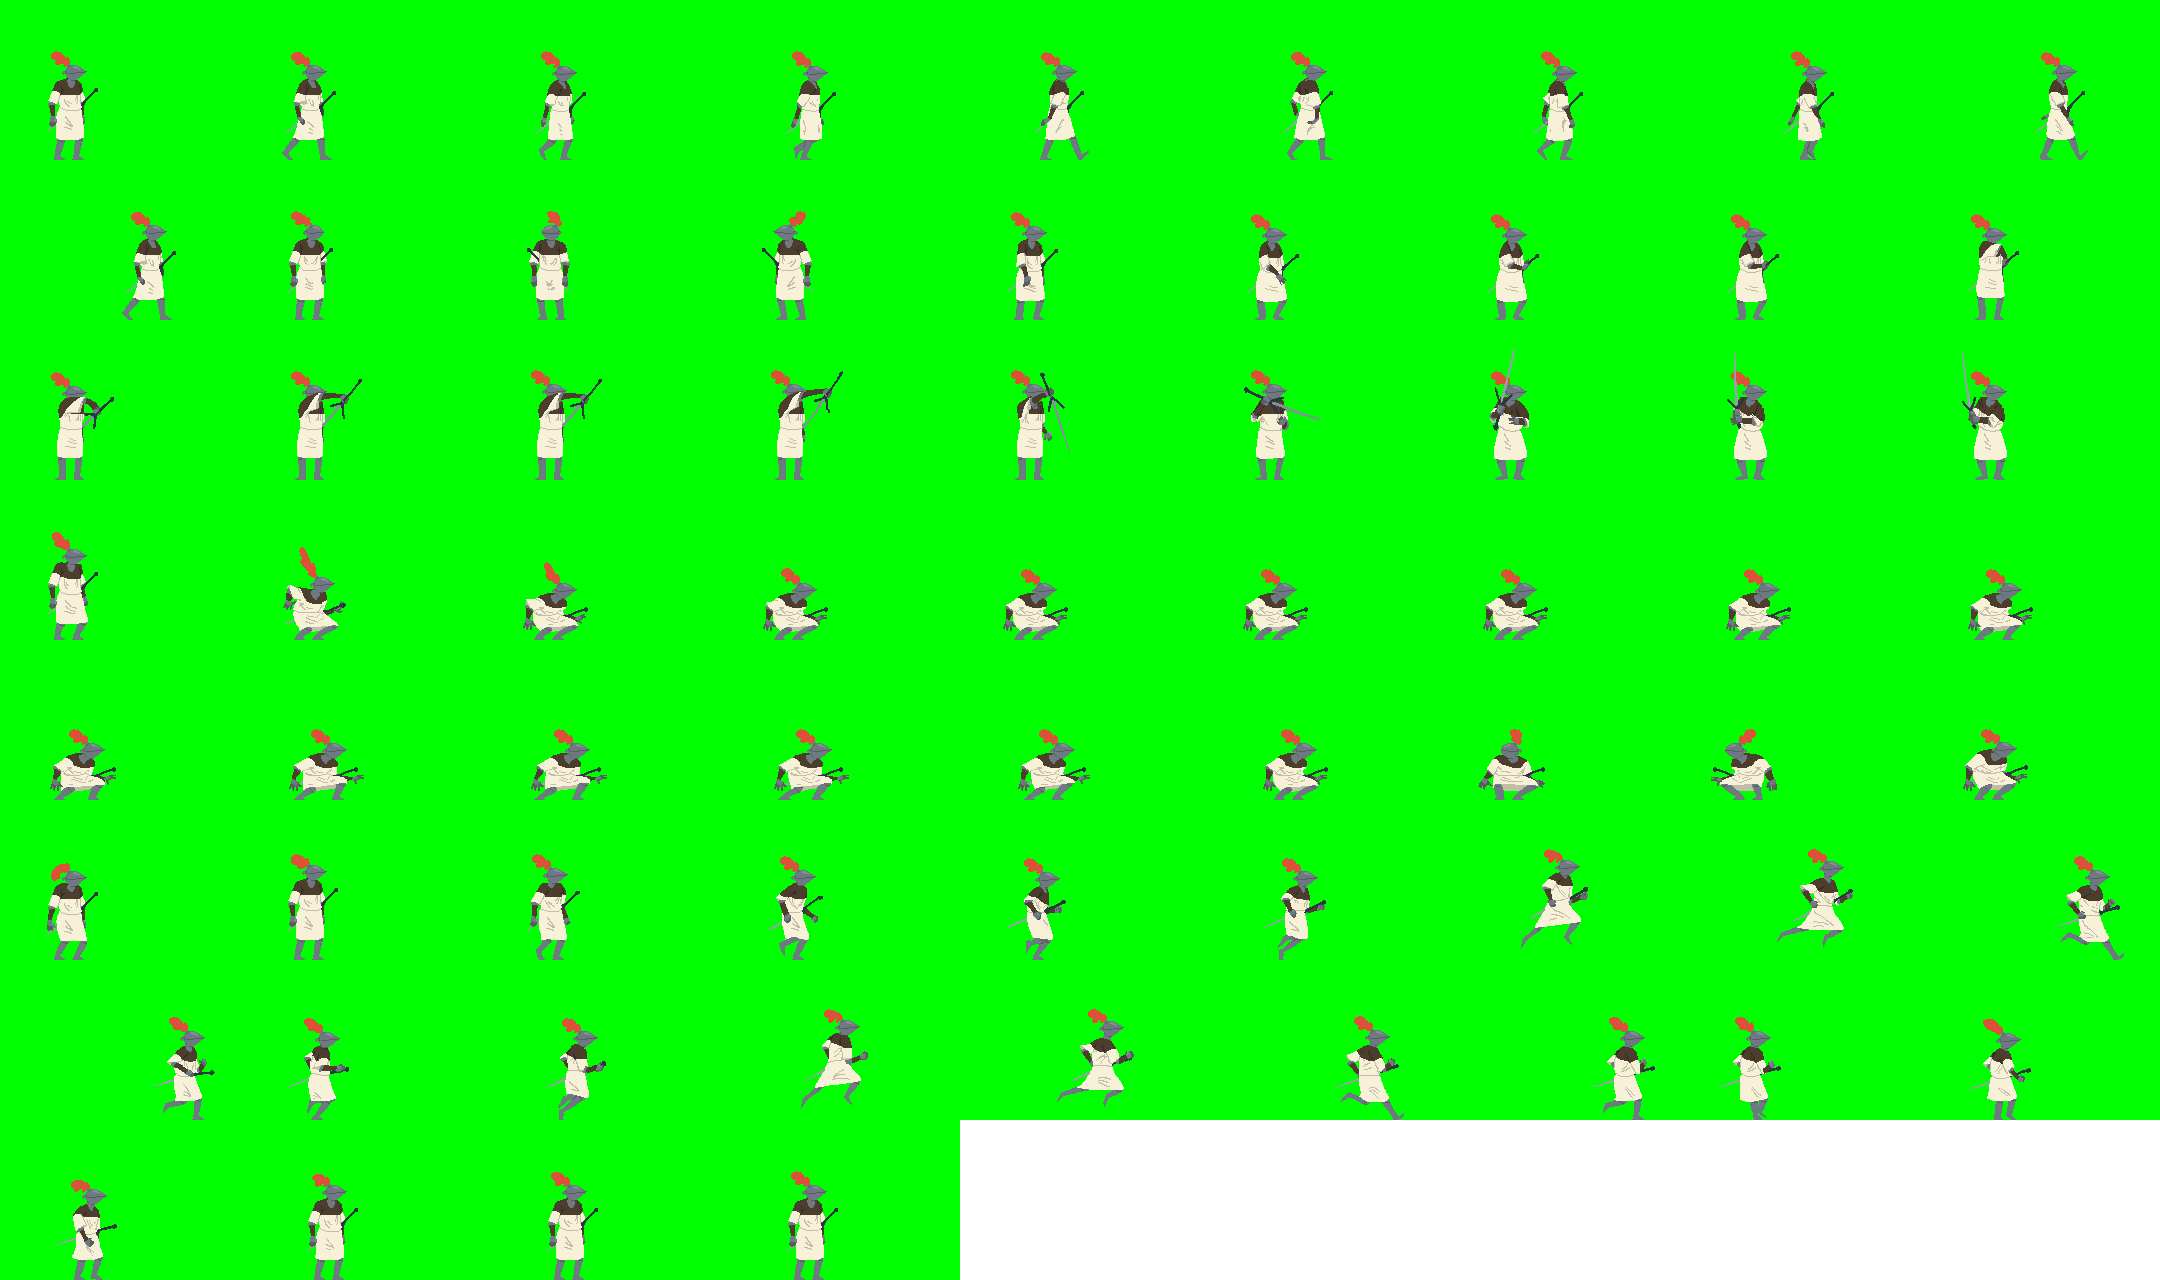
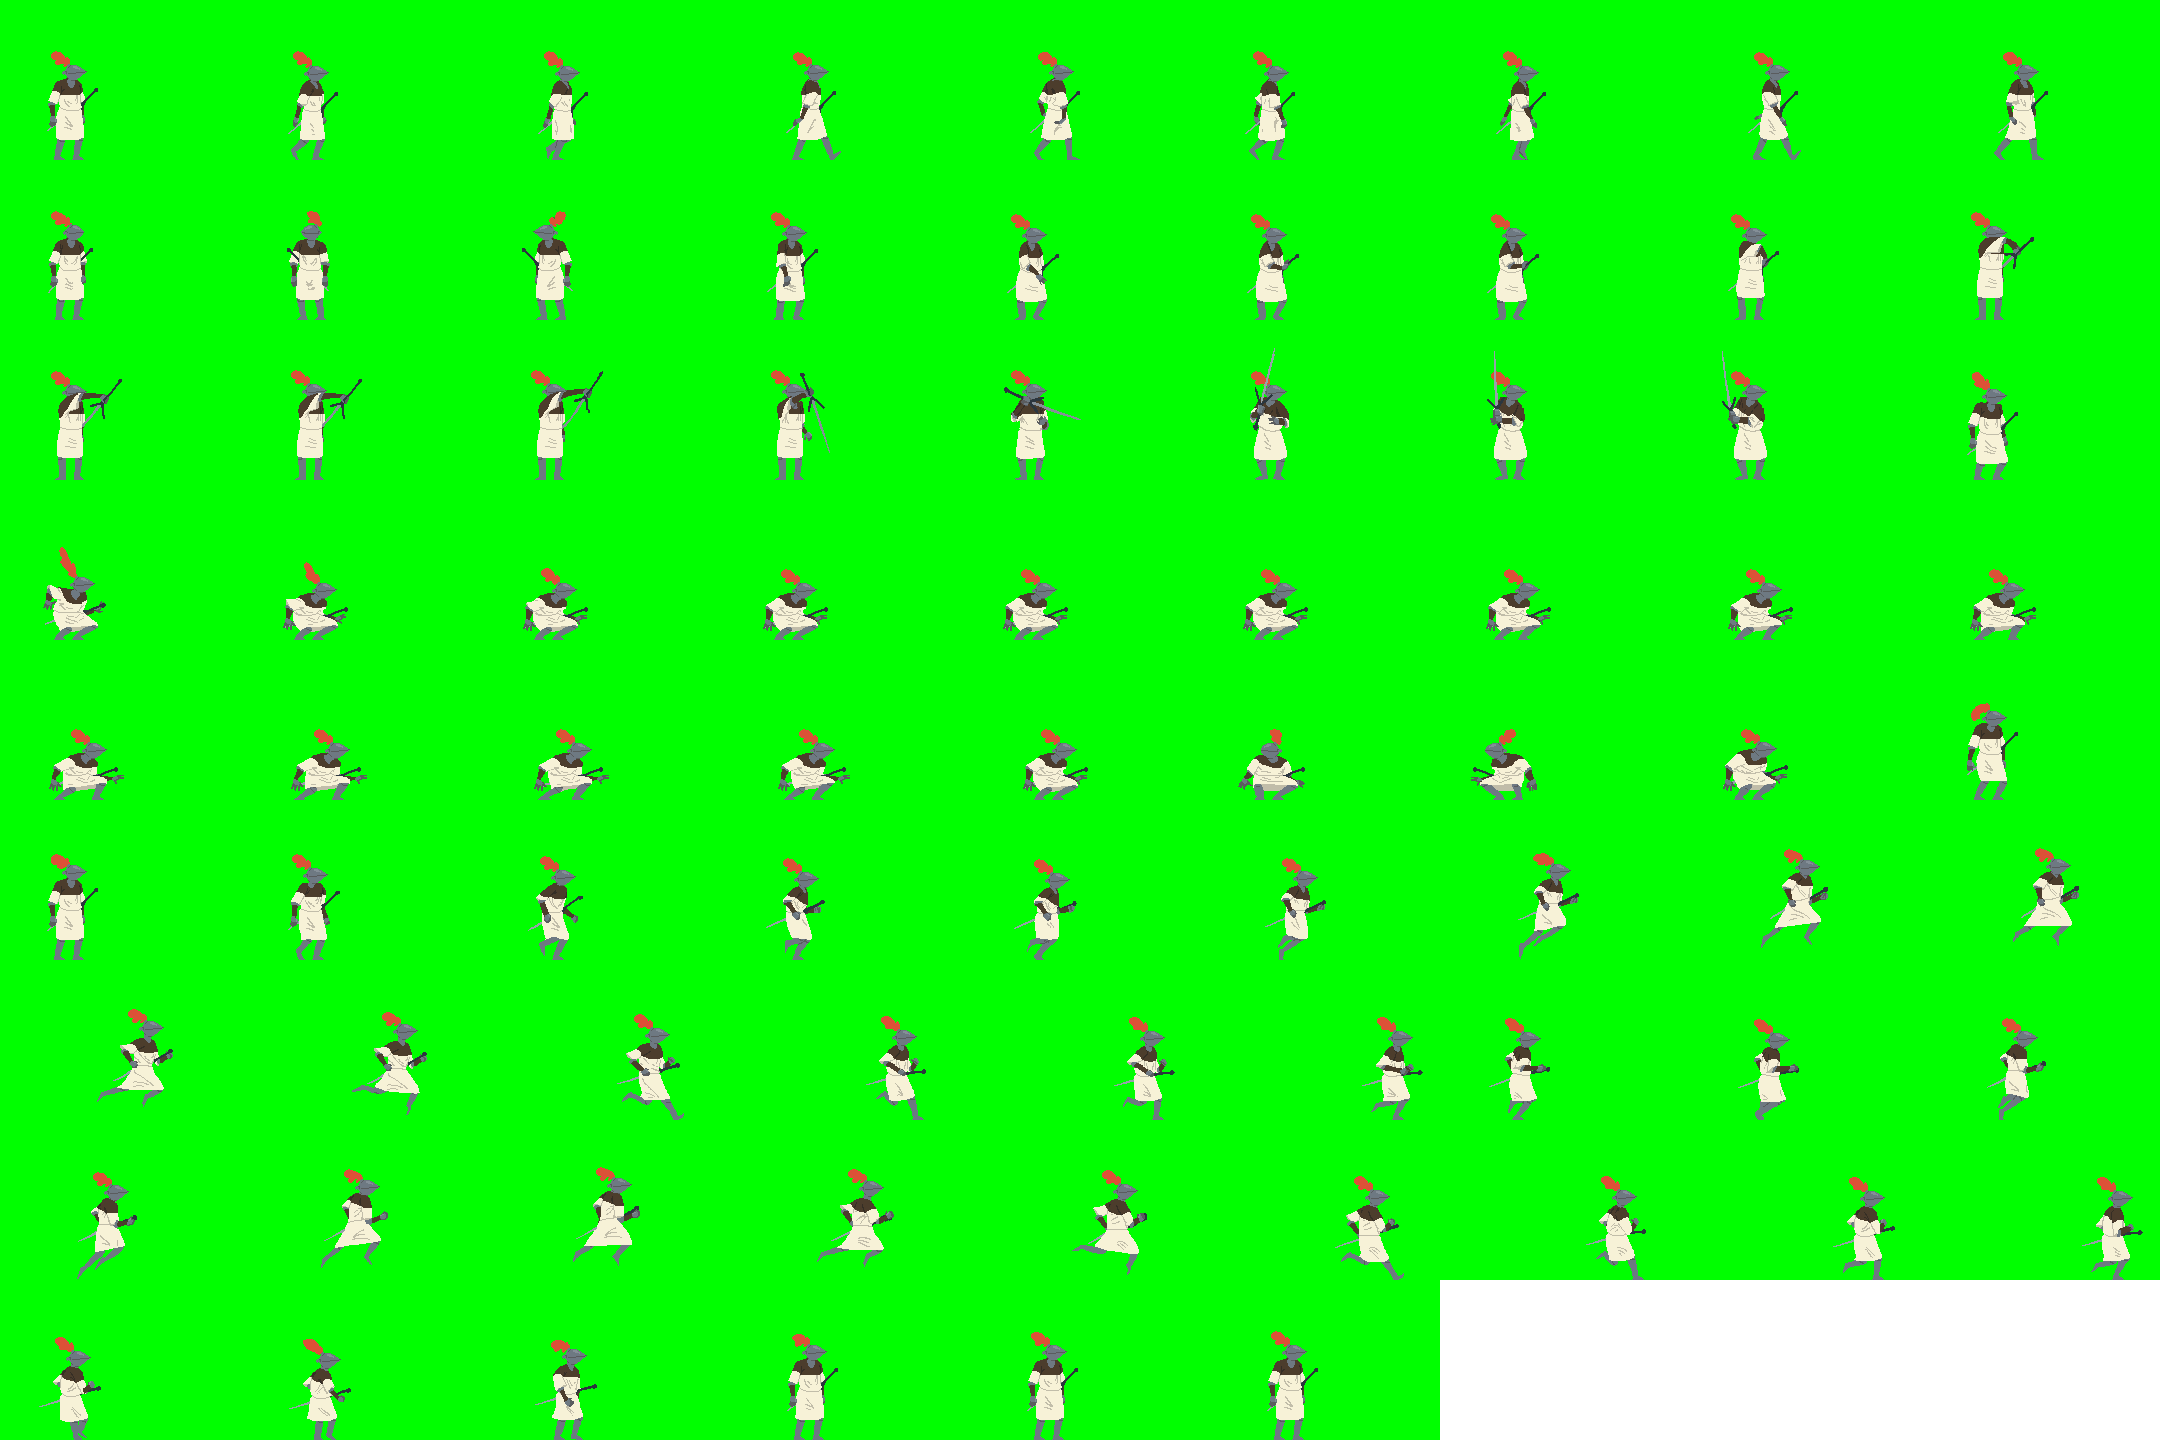
Improve run and walk animations

diff --git a/whitecrow/moves.py b/whitecrow/moves.py
@@ -61,7 +61,12 @@ class MovementManager():
             if is_move_change_authorized(move, self.datas, self.animation):
                 self.set_move(move)
                 return
-            if self.animation.bufferable and move not in self.moves_buffer:
+            conditions = (
+                self.animation.bufferable and
+                move not in self.moves_buffer and
+                self.animation.name != move and
+                self.animation.loop_on != move)
+            if conditions:
                 self.moves_buffer.insert(0, move)
 
     def set_move(self, move):
@@ -89,19 +94,27 @@ class MovementManager():
                 self.datas = json.load(f)
 
     def set_next_move(self):
+        next_move = self.datas["moves"][self.animation.name]["next_move"]
         if self.moves_buffer:
-            self.set_move(self.moves_buffer[0])
-            return
-        move = self.datas["moves"][self.animation.name]["next_move"]
-        self.set_move(move)
+            key = "animation_in"
+            for move in self.moves_buffer:
+                moves_filter = self.datas["moves"][move]["conditions"].get(key)
+                conditions = (
+                    moves_filter is not None and
+                    self.animation.name not in moves_filter and
+                    next_move not in moves_filter)
+                if conditions:
+                    continue
+                self.set_move(move)
+                return
+        self.set_move(next_move)
 
     def next(self):
         anim = self.animation
         if anim.is_finished() and anim.hold is False:
             self.set_next_move()
         if anim.is_finished() and anim.hold is True and anim.repeatable:
-            # this repeat the current animation
-            print(self.animation.loop_on)
+            # this repeat the current animation or next animation on the loop
             self.set_move(self.animation.loop_on)
         self.animation.next()
         self.cordinates.center_offset = map_point(

diff --git a/whitecrow/__main__.py b/whitecrow/__main__.py
@@ -42,14 +42,13 @@ while not done:
             done = True
 
     screen.fill((100, 195, 255))
-    if i % 2 == 0:
-        for player in theatre.scene.players:
-            player.update_inputs(joystick)
-        for element in theatre.scene.evaluables:
-            element.next()
+    for player in theatre.scene.players:
+        player.update_inputs(joystick)
+    for element in theatre.scene.evaluables:
+        element.next()
     theatre.scene.scrolling.next()
     theatre.scene.render(screen)
-    clock.tick(PREFS["fps"] * 2)
+    clock.tick(PREFS["fps"])
 
     pygame.display.flip()
     i += 1
